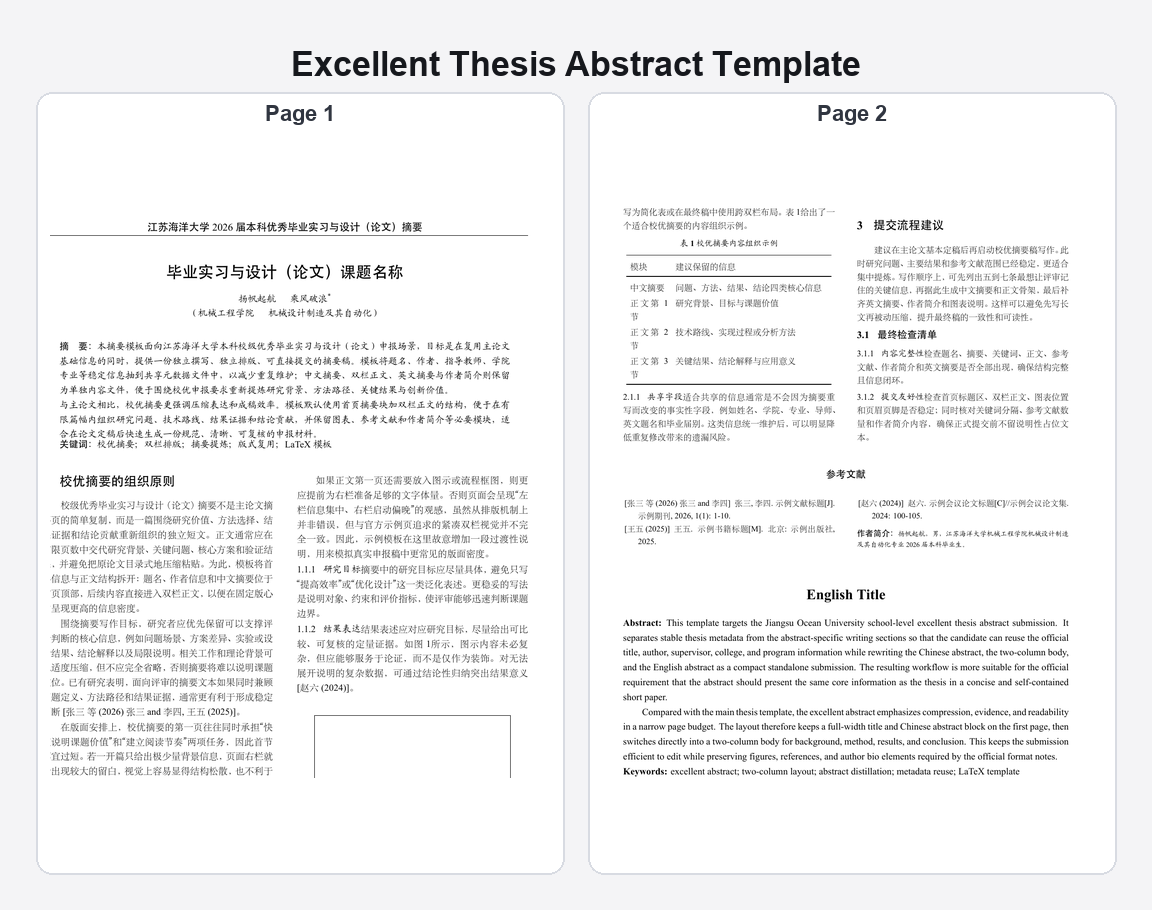
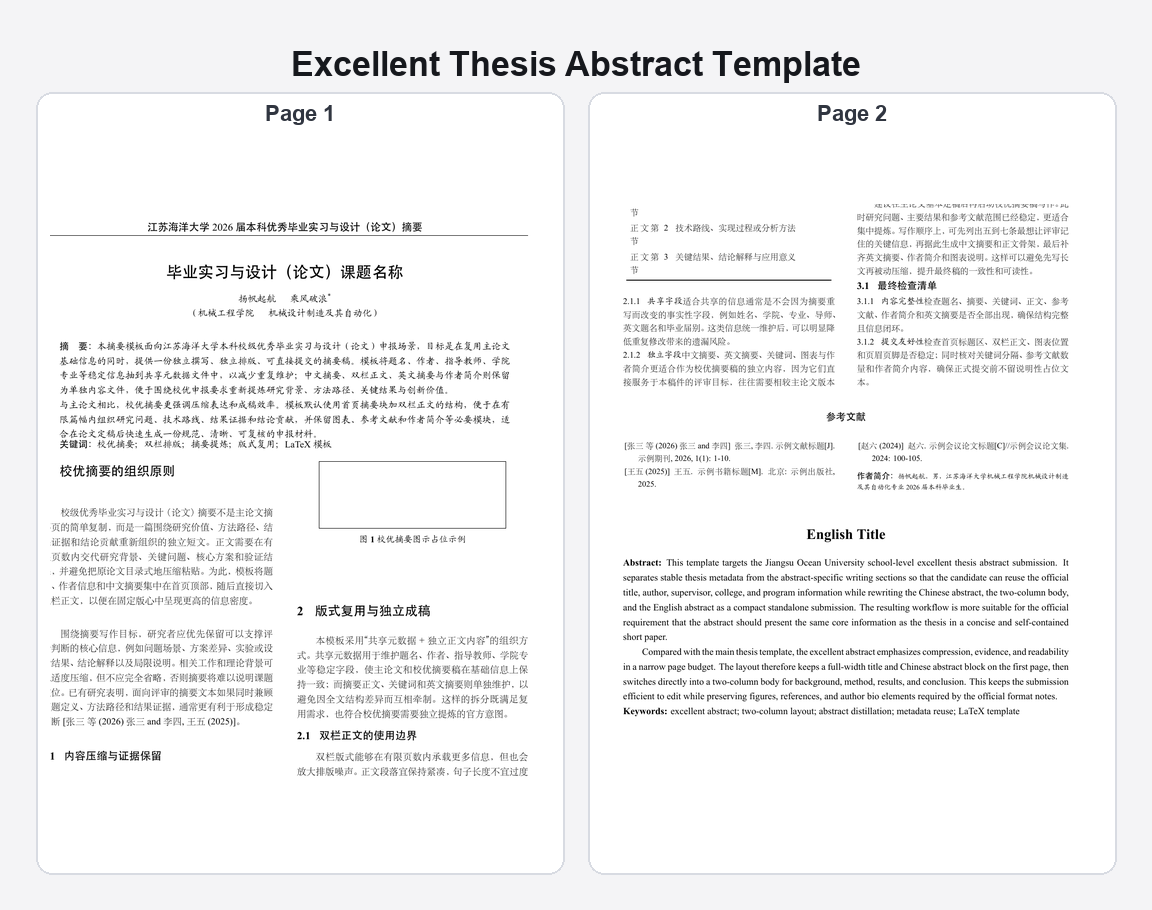
style: tune excellent abstract first page layout

Changed region(s): [[0.5312, 0.2154, 0.9375, 0.8615], [0.0312, 0.4923, 0.4688, 0.8615]]

diff --git a/contents/excellent-abstract/body.tex b/contents/excellent-abstract/body.tex
@@ -1,25 +1,13 @@
 \section{校优摘要的组织原则}
 
-校级优秀毕业实习与设计（论文）摘要不是主论文摘要页的简单复制，而是一篇围绕研究价值、方法选择、结果证据和结论贡献重新组织的独立短文。正文通常应在有限页数中交代研究背景、关键问题、核心方案和验证结果，并避免把原论文目录式地压缩粘贴。为此，模板将首屏信息与正文结构拆开：题名、作者信息和中文摘要位于首页顶部，后续内容直接进入双栏正文，以便在固定版心中呈现更高的信息密度。
-
-围绕摘要写作目标，研究者应优先保留可以支撑评价判断的核心信息，例如问题场景、方案差异、实验或设计结果、结论解释以及局限说明。相关工作和理论背景可以适度压缩，但不应完全省略，否则摘要将难以说明课题定位。已有研究表明，面向评审的摘要文本如果同时兼顾问题定义、方法路径和结果证据，通常更有利于形成稳定判断\cite{example2026,examplebook}。
-
-在版面安排上，校优摘要的第一页往往同时承担“快速说明课题价值”和“建立阅读节奏”两项任务，因此首节不宜过短。若一开篇只给出极少量背景信息，页面右栏就会出现较大的留白，视觉上容易显得结构松散，也不利于和后续图表、二级标题形成稳定的阅读密度。更稳妥的做法，是先用一到两段文字交代研究对象、研究边界与评价口径，再进入更细的分级标题。
+校级优秀毕业实习与设计（论文）摘要不是主论文摘要页的简单复制，而是一篇围绕研究价值、方法路径、结果证据和结论贡献重新组织的独立短文。正文需要在有限页数内交代研究背景、关键问题、核心方案和验证结果，并避免把原论文目录式地压缩粘贴。为此，模板将题名、作者信息和中文摘要集中在首页顶部，随后直接切入双栏正文，以便在固定版心中呈现更高的信息密度。
 
 \subsection{内容压缩与证据保留}
 
-压缩并不意味着删减到只剩结论。校优摘要的主要难点在于：一方面需要保留与主论文同等层级的关键信息，另一方面又必须在有限篇幅内保持逻辑闭合。因此，摘要应优先保留“问题是什么、为什么重要、做了什么、得到什么、说明什么”这五类内容，并通过图表或数据提示增强可读性。对不直接影响结论判断的细节，可在正文中采用概述性语言处理，而不是完全展开。
-
-如果正文第一页还需要放入图示或流程框图，则更应提前为右栏准备足够的文字体量。否则页面会呈现“左栏信息集中、右栏启动偏晚”的观感，虽然从排版机制上并非错误，但与官方示例页追求的紧凑双栏视觉并不完全一致。因此，示例模板在这里故意增加一段过渡性说明，用来模拟真实申报稿中更常见的版面密度。
-
-\subsubsection{研究目标}
-摘要中的研究目标应尽量具体，避免只写“提高效率”或“优化设计”这一类泛化表述。更稳妥的写法是说明对象、约束和评价指标，使评审能够迅速判断课题边界。
-
-\subsubsection{结果表达}
-结果表述应对应研究目标，尽量给出可比较、可复核的定量证据。如图\ref{fig:excellent-placeholder}所示，图示内容未必复杂，但应能够服务于论证，而不是仅作为装饰。对无法展开说明的复杂数据，可通过结论性归纳突出结果意义\cite{exampleconf}。
+围绕摘要写作目标，研究者应优先保留可以支撑评价判断的核心信息，例如问题场景、方案差异、实验或设计结果、结论解释以及局限说明。相关工作和理论背景可以适度压缩，但不应完全省略，否则摘要将难以说明课题定位。压缩并不意味着删减到只剩结论，更稳妥的做法是保留“问题是什么、为什么重要、做了什么、得到什么、说明什么”这五类内容，并通过图表或数据提示增强可读性。若首页需要插入图示或流程框图，应让图前文字先交代对象、边界和评价指标，使图示能够顺势承接叙述，而不是孤立出现。如图\ref{fig:excellent-placeholder}所示，图示内容未必复杂，但应能够服务于论证，而不是仅作为装饰\cite{example2026,exampleconf}。
 
 \begin{center}
-    \fbox{\rule{0pt}{2.4cm}\rule{0.82\columnwidth}{0pt}}
+    \fbox{\rule{0pt}{2.35cm}\rule{0.82\columnwidth}{0pt}}
     \captionof{figure}{校优摘要图示占位示例}
     \label{fig:excellent-placeholder}
 \end{center}
@@ -30,7 +18,7 @@
 
 \subsection{双栏正文的使用边界}
 
-双栏版式能够在有限页数内承载更多信息，但也会放大排版噪声。正文段落宜保持紧凑，句子长度不宜过度膨胀，图表应尽量控制在单栏内；若表格较宽，可考虑改写为简化表或在最终稿中使用跨双栏布局。表\ref{tab:excellent-outline}给出了一个适合校优摘要的内容组织示例。
+双栏版式能够在有限页数内承载更多信息，但也会放大排版噪声。正文段落宜保持紧凑，句子长度不宜过度膨胀，图表应尽量控制在单栏内；若表格较宽，可考虑改写为简化表或在最终稿中使用跨双栏布局。为了让第一页更接近校方示例页的阅读节奏，本模板在首图之后立即引入第二节，使左栏底部和右栏顶部能够尽早形成稳定的双栏密度。表\ref{tab:excellent-outline}给出了一个适合校优摘要的内容组织示例。
 
 \begin{center}
     \captionof{table}{校优摘要内容组织示例}

diff --git a/templates/reports/excellent-thesis-abstract.tex b/templates/reports/excellent-thesis-abstract.tex
@@ -28,7 +28,7 @@
 \JOUExcellentInsetBlock{\noindent{\heiti 摘\hspace{1em}要：}\input{../../contents/excellent-abstract/cn-abstract.tex}}
 \JOUExcellentInsetBlock{\noindent{\heiti 关键词：}\JOUExcellentCnKeywords}}
 
-\vspace{0.45cm}
+\vspace{0.18cm}
 
 \JOUExcellentFirstPageNote
 \begin{multicols}{2}
